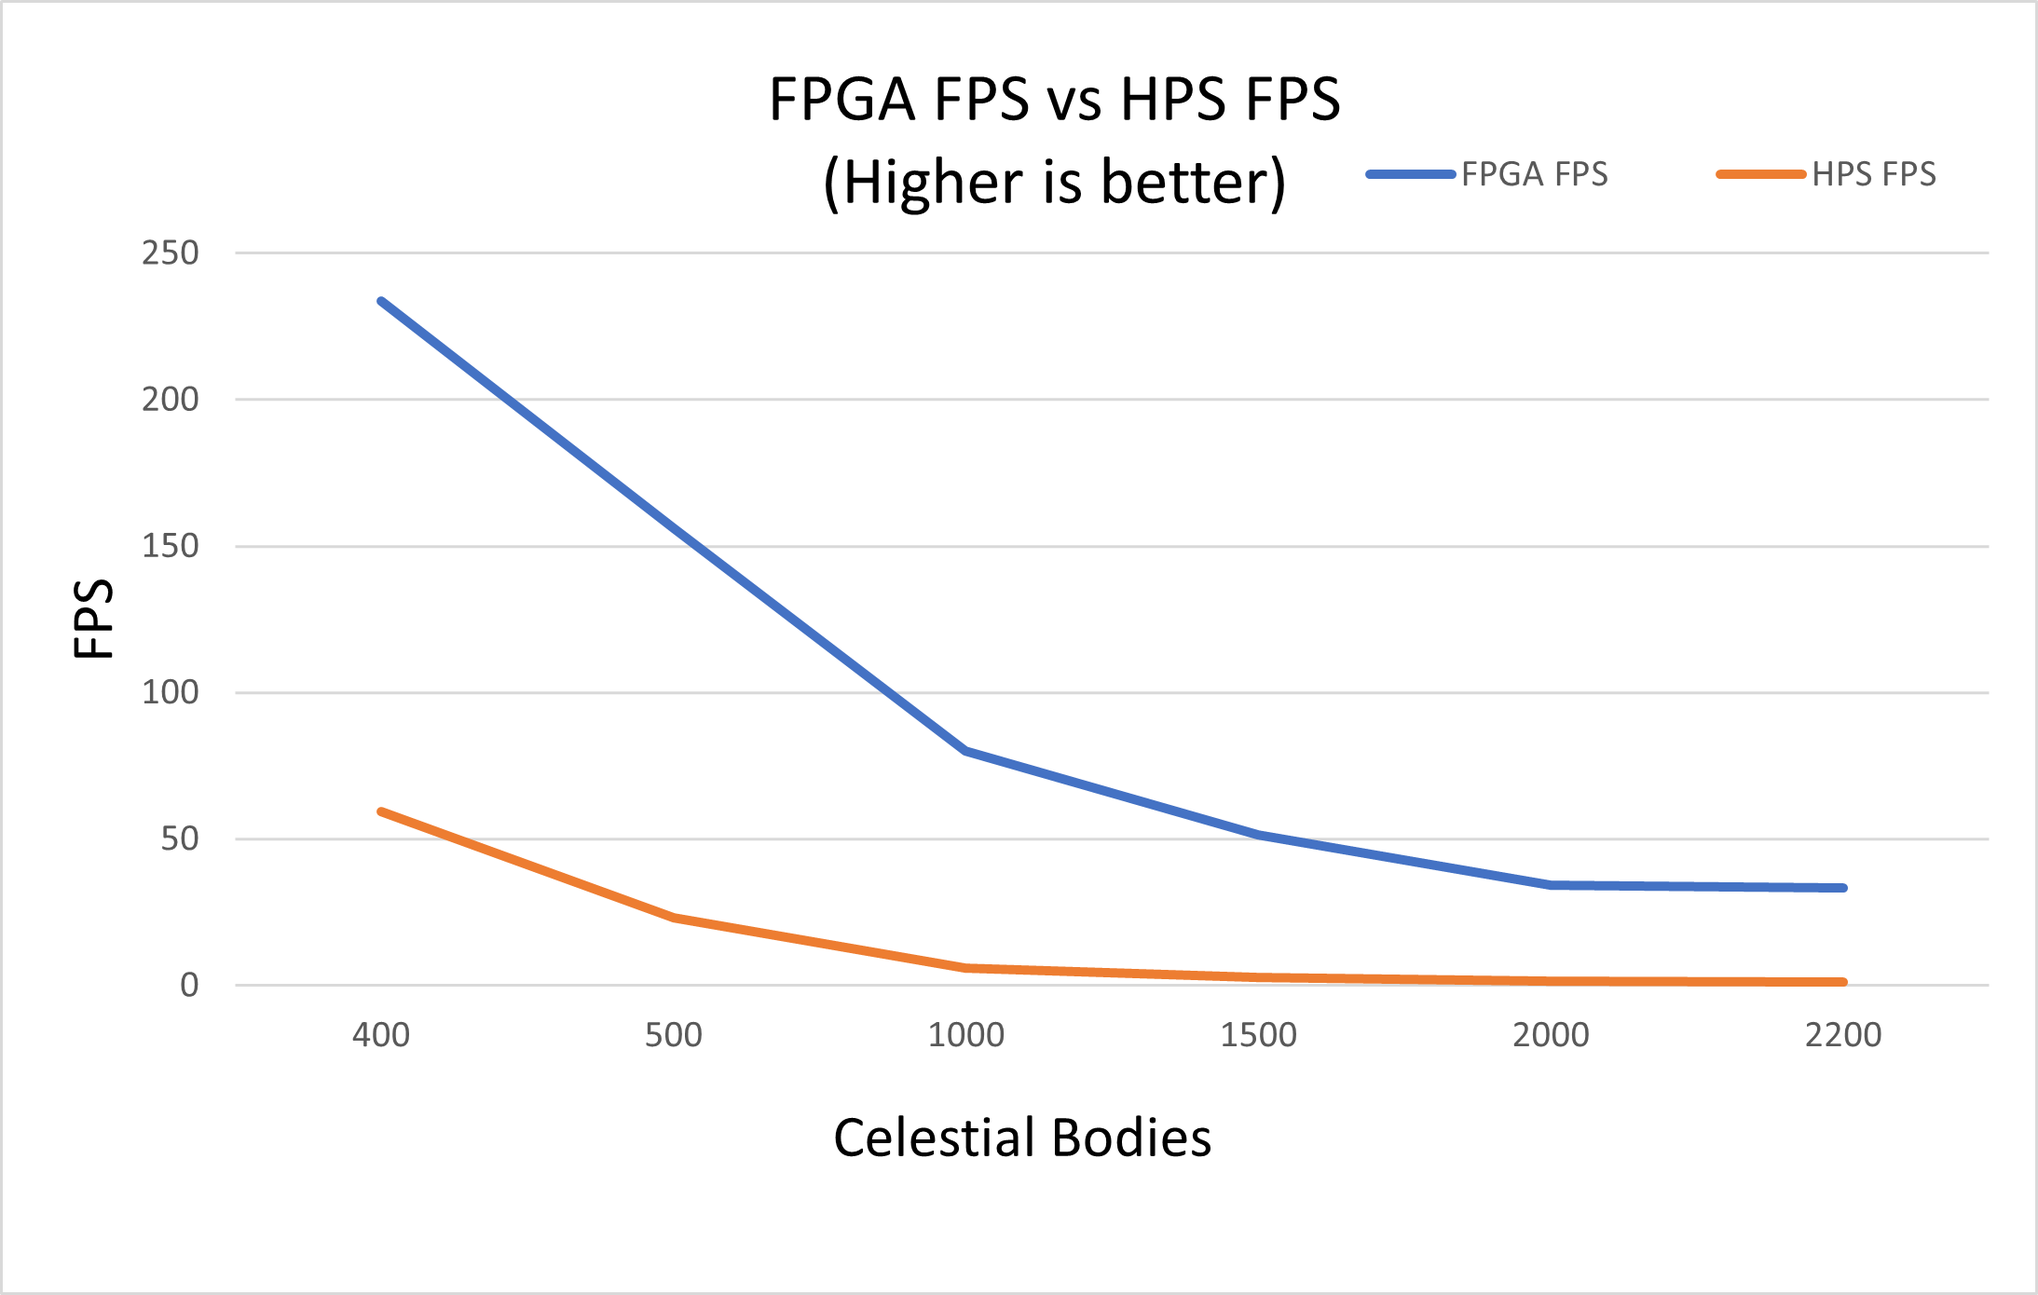
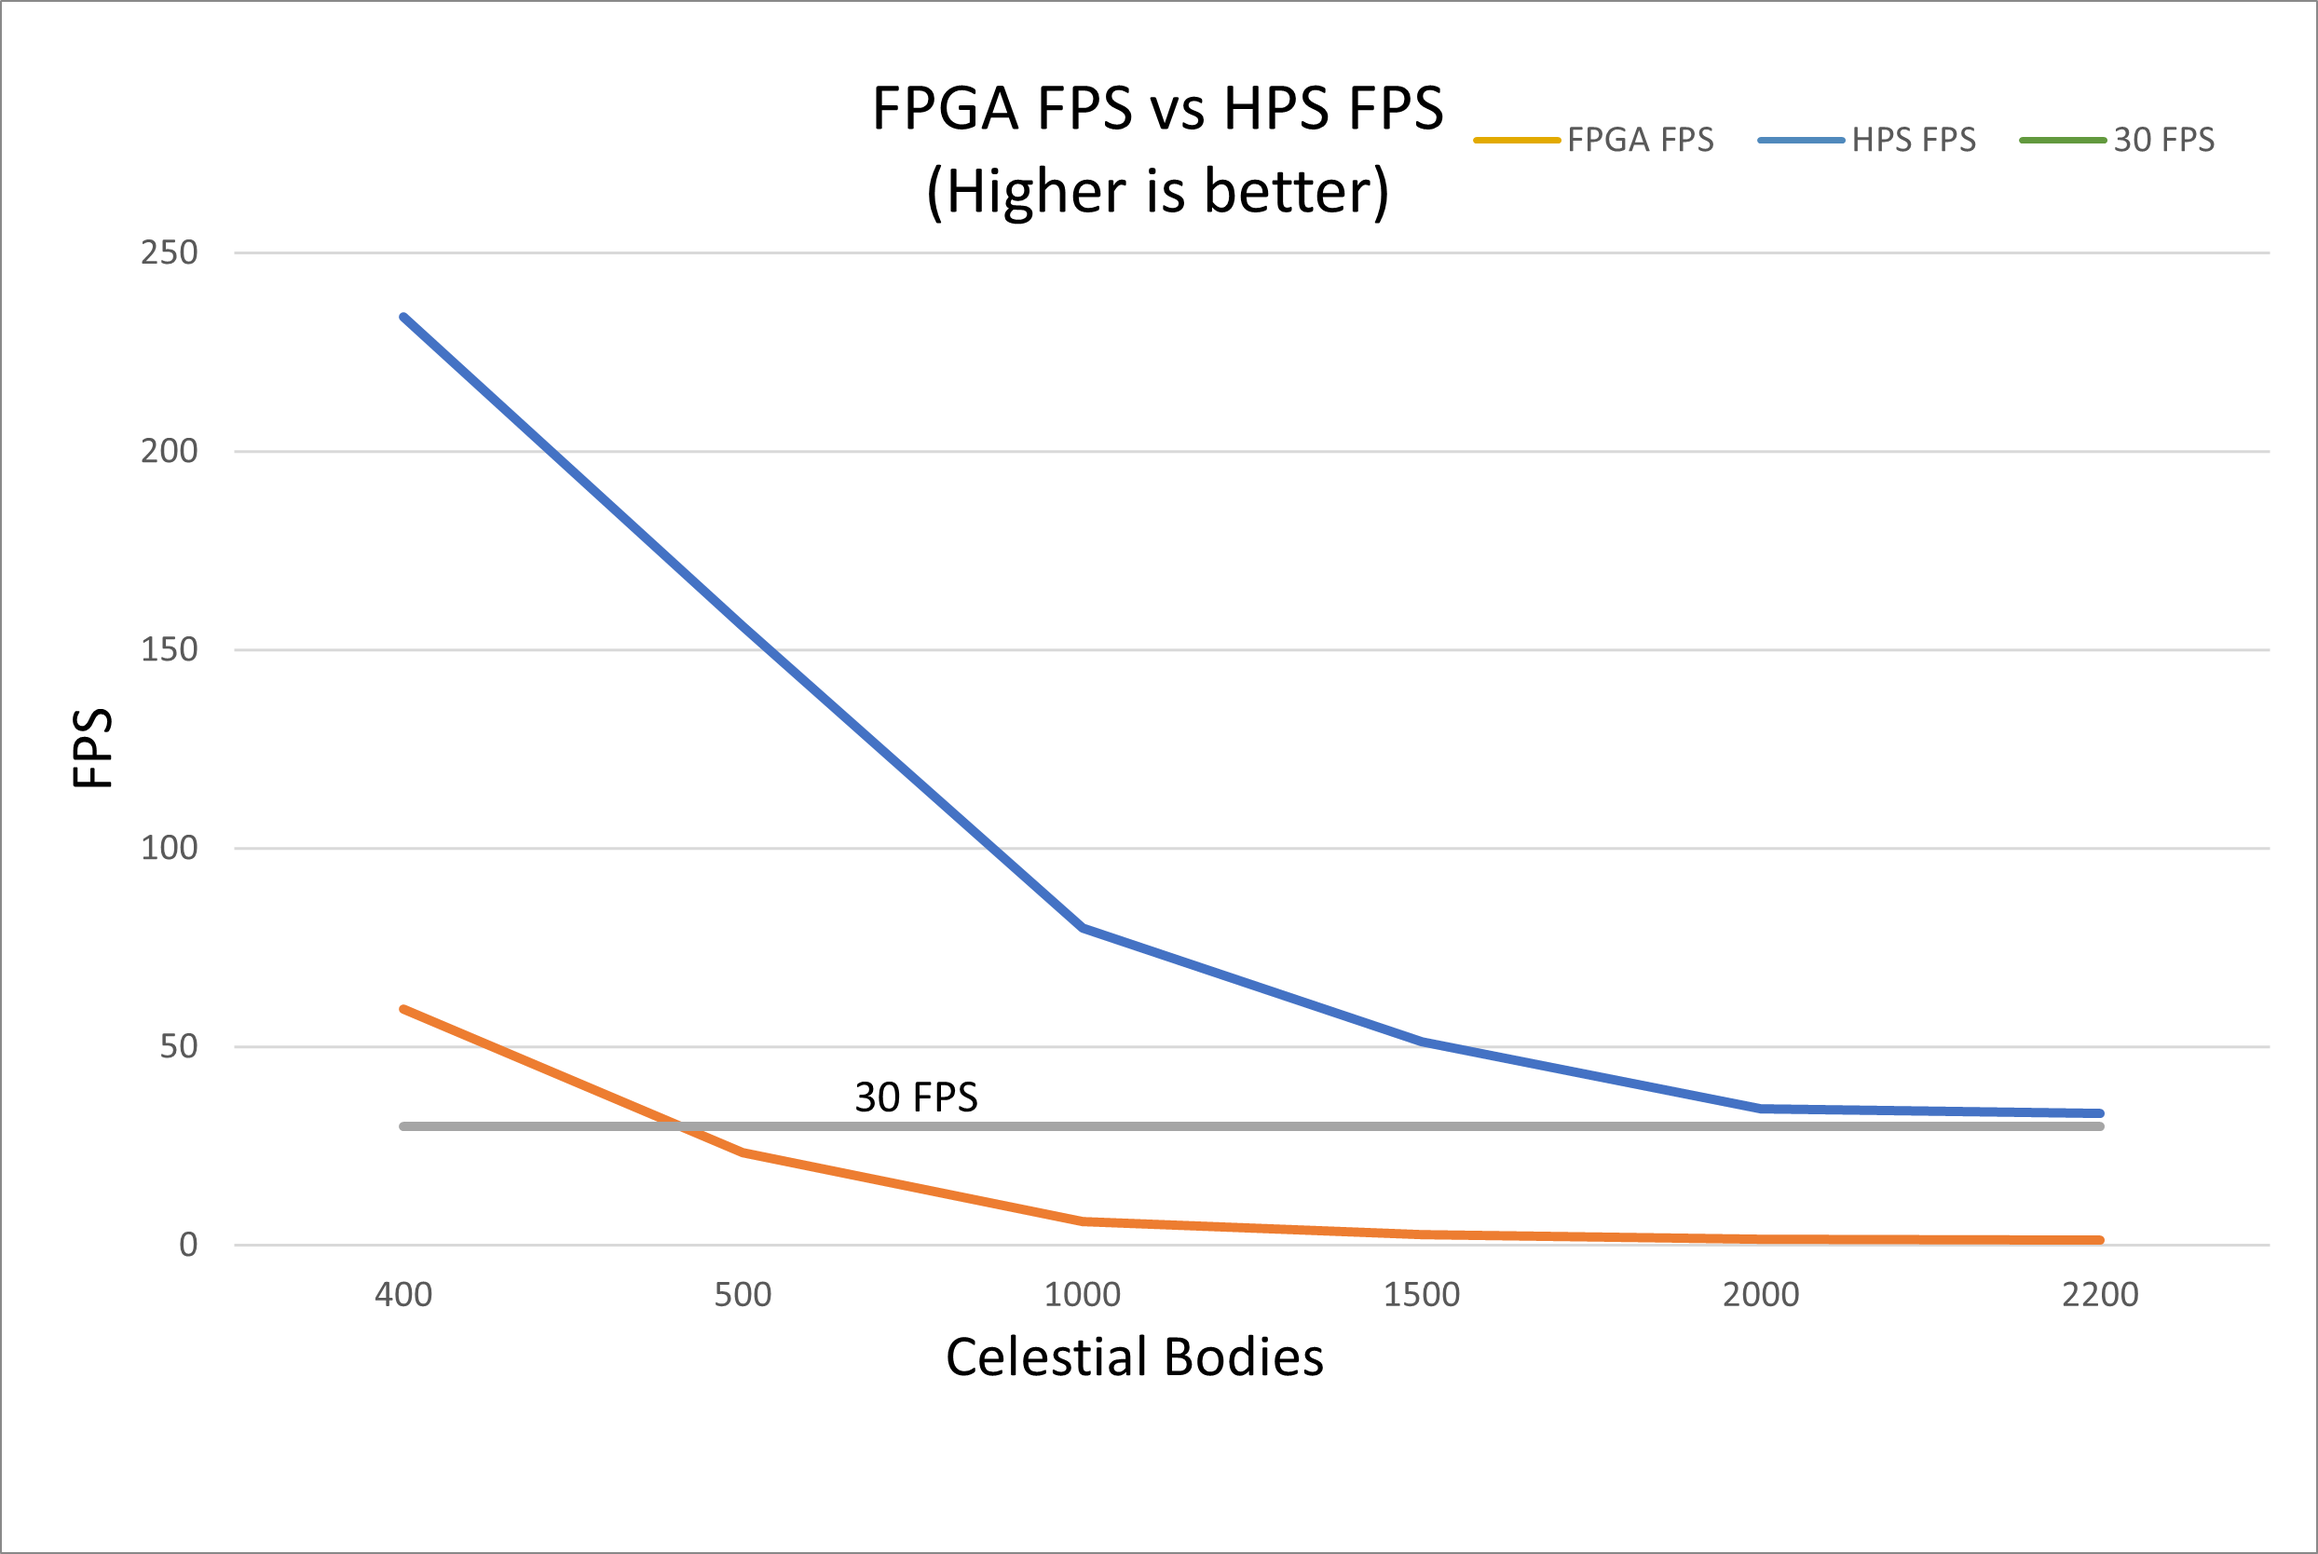
Adds links, example simulation, 30 FPS line

diff --git a/README.md b/README.md
@@ -9,14 +9,20 @@
 
 Our goal for this project was to create a gravity simulation and accelerate it using the FPGA. Simulating gravity between celestial bodies (stars, planets, asteroids, etc.) using a standard CPU is limited since it can only do sequential calculations, leading to very long simulation times as the number of bodies increases. Our goal was to speed up these calculations by sending each celestial body’s information to the FPGA, have it calculate each interaction between the other celestial bodies in parallel, and then send the result back up to the ARM to be displayed on the monitor.
 
+![Picture of the spiral system and the siulation](SimulationExample.gif "Spiral System Example")
+
+
 Our results were that we could simulate almost 5x more celestial bodies at 30 FPS than the HPS could with a maximum of 2200 celestial objects. The accelerator we created outperformed the HPS program that performed the same calculation by at least a factor of 25x, even including communication latency between the FPGA and HPS. 
 
 ![Graph of HPS vs FPGA FPS where the HPS FPS quickly goes to 0 while the FPGA stays above 30 until 2200](FPGAvsHPS_FPS.png "HPS vs FPGA FPS")
 
-Please see our website, found [here (to be added soon)]() for a full description of the project, verilog, and C code.
+Please see our website, found [here](https://people.ece.cornell.edu/land/courses/ece5760/FinalProjects/s2023/raf269_nkg37_tjw234/raf269_nkg37_tjw234/index.html) for a full description of the project, verilog, and C code.
 
 Here is a link to the demo of our project:
 [Video demo link](https://www.youtube.com/watch?v=I-tN022fdpk)
+
+Here is another video with more demos of our project:
+[link](https://youtu.be/vNPuH5ApaiQ)
 
 ## Installation instructions
 
@@ -37,6 +43,8 @@ By default each pixel corresponds with 1 AU (Astronomical Unit).
 The verilog code is also provided and can be flashed to a Altera DE1-SoC Development Kit using Quartus Prime Lite and the GravitySimProjectArchive.qar file.
 
 ## How to use
+
+Plug in a VGA screen and a mouse into the FPGA to use the simulator.
 
 The mouse is used to click on the buttons. There are 9 buttons:
 - Quit button to exit the simulation
